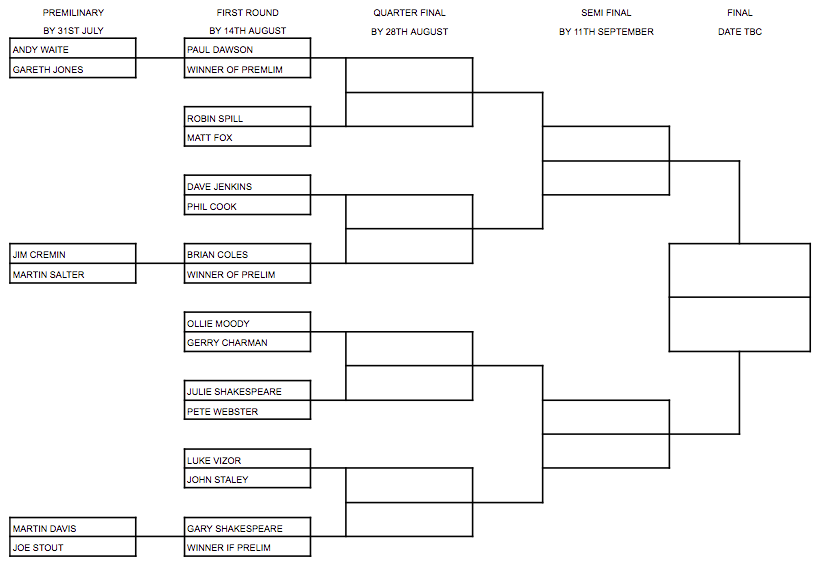
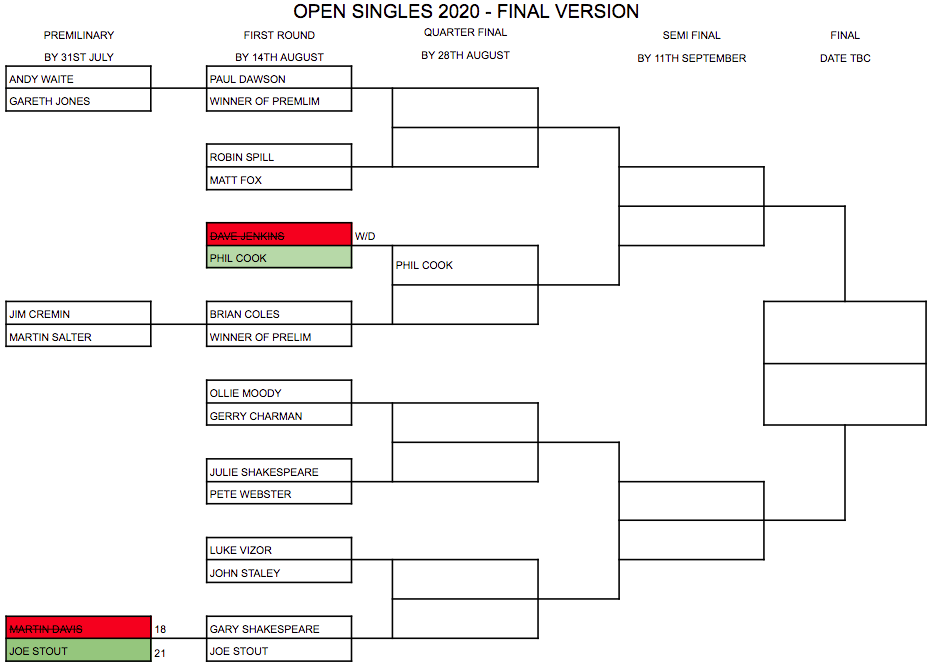
update 31st July

Changed region(s): [[0.0, 0.0, 1.0, 1.0], [0.8831, 0.0, 0.944, 0.0898]]

diff --git a/pairs-leagues.html b/pairs-leagues.html
@@ -62,18 +62,7 @@
                         </h3>
                     </div>
                 </div>
-                <div class="fixture">
-                    <div class="key">
-                        <p class="uppercase">
-                            Thurs 30/07 5.30pm
-                        </p>
-                    </div>
-                    <div class="value">
-                        <p>
-                            M.Davis & F.Waite v L.Vizor & E.Woodhead - League B
-                        </p>
-                    </div>
-                </div>
+
                  <div class="fixture">
                     <div class="key">
                         <p class="uppercase">
@@ -82,13 +71,25 @@
                     </div>
                     <div class="value">
                         <p>
-                            J.Stout & G.Newman v J.Shakespeare & J.Woodhead - League A
+                            J.Stout & G.Newman v M.Fox & J.Woodhead - League A
                         </p>
                     </div>
                 </div>
                 <h3 class="this-weeks-games uppercase">
                             Recent results
                 </h3>
+                <div class="fixture">
+                    <div class="key">
+                        <p class="uppercase">
+                            League B
+                        </p>
+                    </div>
+                    <div class="value">
+                        <p>
+                            M.Davis & F.Waite 18 - 22 L.Vizor & E.Woodhead
+                        </p>
+                    </div>
+                </div>
                 <div class="fixture">
                     <div class="key">
                         <p class="uppercase">
@@ -258,6 +259,17 @@
                                     <td>6</td>
 								</tr>
 								<tr>
+									<td>L.Vizor</td>
+									<td>3</td>
+									<td class="d-none d-md-table-cell">2</td>
+                                    <td class="d-none d-md-table-cell">0</td>
+                                    <td class="d-none d-md-table-cell">1</td>
+                                    <td class="d-none d-md-table-cell">49</td>
+                                    <td class="d-none d-md-table-cell">48</td>
+                                    <td>+1</td>
+                                    <td>6</td>
+								</tr>
+								<tr>
 									<td>G.Charman</td>
 									<td>3</td>
 									<td class="d-none d-md-table-cell">2</td>
@@ -268,15 +280,15 @@
                                     <td>+1</td>
                                     <td>6</td>
 								</tr>
-								<tr>
+                                <tr>
 									<td>F.Waite</td>
-									<td>2</td>
+									<td>3</td>
 									<td class="d-none d-md-table-cell">1</td>
                                     <td class="d-none d-md-table-cell">0</td>
-                                    <td class="d-none d-md-table-cell">1</td>
-                                    <td class="d-none d-md-table-cell">39</td>
-                                    <td class="d-none d-md-table-cell">33</td>
-                                    <td>+6</td>
+                                    <td class="d-none d-md-table-cell">2</td>
+                                    <td class="d-none d-md-table-cell">57</td>
+                                    <td class="d-none d-md-table-cell">55</td>
+                                    <td>+2</td>
                                     <td>3</td>
 								</tr>
                                 <tr>
@@ -287,17 +299,6 @@
                                     <td class="d-none d-md-table-cell">2</td>
                                     <td class="d-none d-md-table-cell">46</td>
                                     <td class="d-none d-md-table-cell">49</td>
-                                    <td>-3</td>
-                                    <td>3</td>
-								</tr>
-                                <tr>
-									<td>L.Vizor</td>
-									<td>2</td>
-									<td class="d-none d-md-table-cell">1</td>
-                                    <td class="d-none d-md-table-cell">0</td>
-                                    <td class="d-none d-md-table-cell">1</td>
-                                    <td class="d-none d-md-table-cell">27</td>
-                                    <td class="d-none d-md-table-cell">30</td>
                                     <td>-3</td>
                                     <td>3</td>
 								</tr>

diff --git a/mens-singles.html b/mens-singles.html
@@ -60,6 +60,18 @@
                 <div class="fixture">
                     <div class="key">
                         <p class="uppercase">
+                            Thurs 30/07 2.00pm
+                        </p>
+                    </div>
+                    <div class="value">
+                        <p>
+                            P.Cook 6 - 21 G.Charman
+                        </p>
+                    </div>
+                </div>
+                <div class="fixture">
+                    <div class="key">
+                        <p class="uppercase">
                             Tues 28/07 5.30pm
                         </p>
                     </div>
@@ -76,18 +88,7 @@
                         </h3>
                     </div>
                 </div>
-                 <div class="fixture">
-                    <div class="key">
-                        <p class="uppercase">
-                            Thurs 30/07 2.00pm
-                        </p>
-                    </div>
-                    <div class="value">
-                        <p>
-                            P.Cook v G.Charman - Prelim
-                        </p>
-                    </div>
-                </div>
+                 
                  <div class="fixture">
                     <div class="key">
                         <p class="uppercase">

diff --git a/ladies-singles.html b/ladies-singles.html
@@ -72,7 +72,7 @@
                 <div class="row">
                     <div class="col-12">
                         <h3 class="this-weeks-games uppercase">
-                            Upcoming ladiessingles matches
+                            Upcoming ladies singles matches
                         </h3>
                         <h5 class="this-weeks-games-subheading">
                             Ladies Singles fixtures will appear here once booked
@@ -88,6 +88,18 @@
                     <div class="value">
                         <p>
                             G.Keating v J.Shakespeare - Ladies Semi-final
+                        </p>
+                    </div>
+                </div>   
+                <div class="fixture">
+                    <div class="key">
+                        <p class="uppercase">
+                            Fri 14/08 10.00pm
+                        </p>
+                    </div>
+                    <div class="value">
+                        <p>
+                            A.Harrison v J.Webb - Ladies Semi-final
                         </p>
                     </div>
                 </div>   

diff --git a/open-singles.html b/open-singles.html
@@ -76,18 +76,6 @@
                 <div class="fixture">
                     <div class="key">
                         <p class="uppercase">
-                            Wed  29/07 6.30pm
-                        </p>
-                    </div>
-                    <div class="value">
-                        <p>
-                            M.Davis v J.Stout - Open Singles Prelim
-                        </p>
-                    </div>
-                </div>
-                <div class="fixture">
-                    <div class="key">
-                        <p class="uppercase">
                             Fri 31/07 5.30pm
                         </p>
                     </div>

diff --git a/index.html b/index.html
@@ -97,14 +97,14 @@
                     </div>
                     <div class="value">
                         <p>
-                            J.Stout & G.Newman v J.Shakespeare & M.Fox - Pairs League A
+                            J.Stout & G.Newman v J.Woodhead & M.Fox - Pairs League A
                         </p>
                     </div>
                 </div>
                 <div class="fixture">
                     <div class="key">
                         <p class="uppercase">
-                            Fri 31/07 TBC
+                            Fri 31/07 5.30pm
                         </p>
                     </div>
                     <div class="value">
